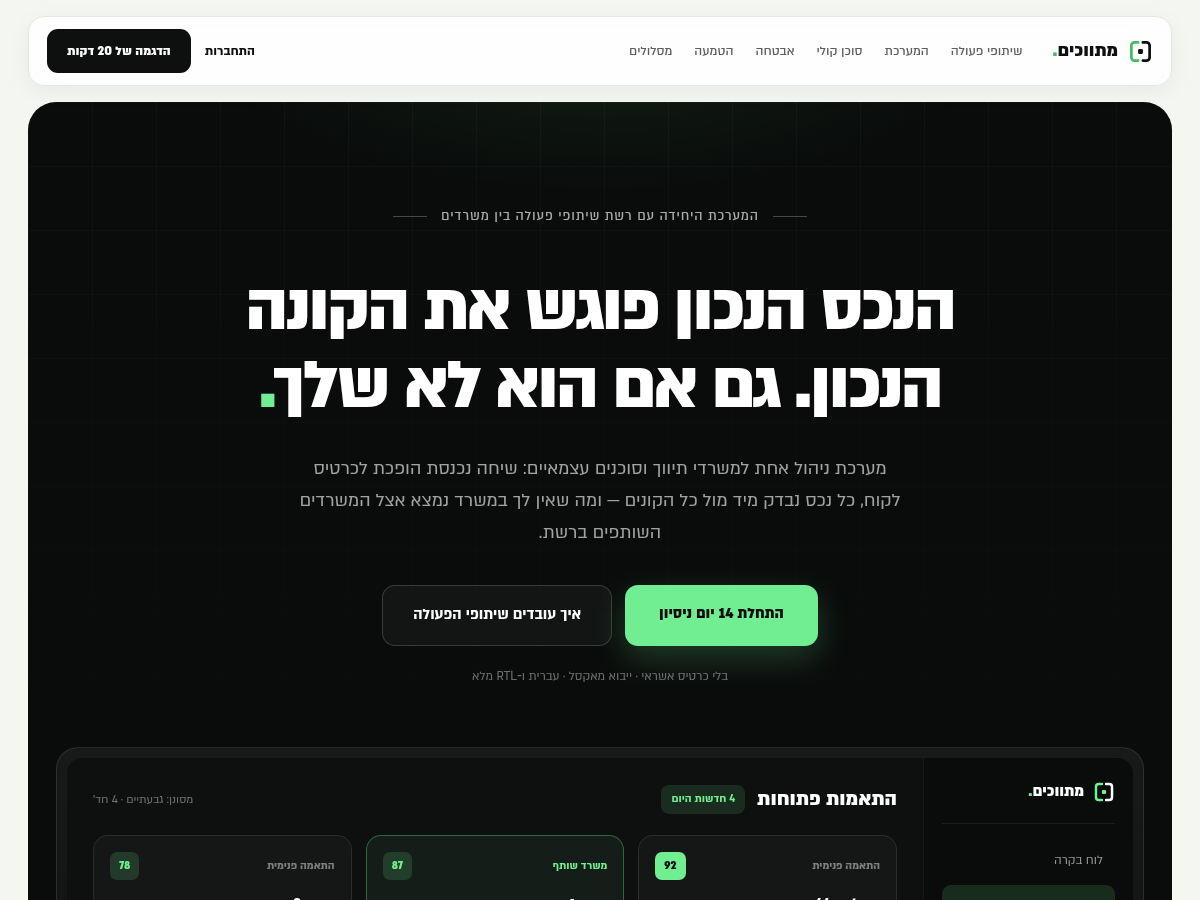
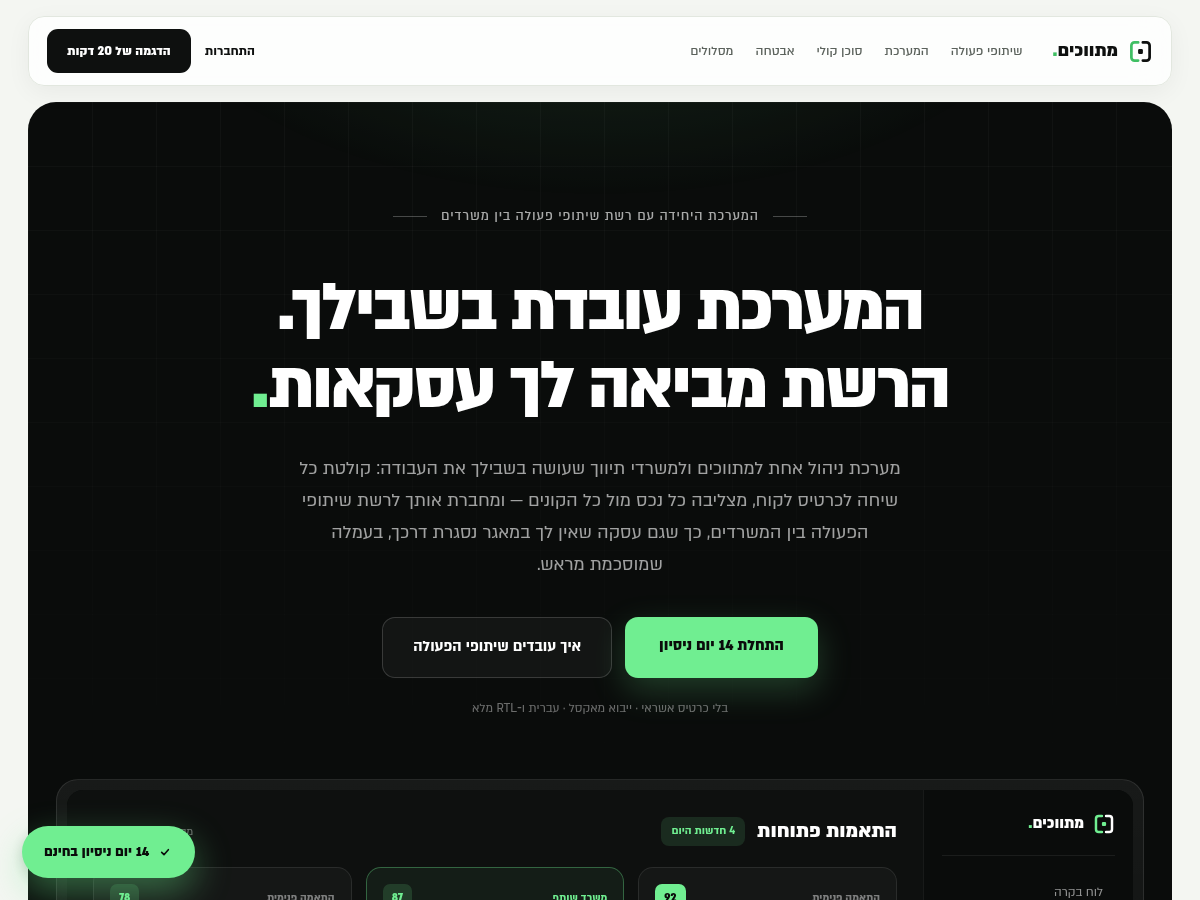
Apply requested changes: sticky nav fix, sticky trial CTA, copy and section updates
- Fix sticky nav: replace overflow-x:hidden on the page wrapper with
  overflow-x:clip on html/body (hidden created a scroll container that
  prevented position:sticky from working)
- Add an always-visible floating "14 יום ניסיון בחינם" CTA button
- Point the login link at https://app.metavchim.co.il/
- Add Multi Digital credit to the footer
- Remove the onboarding ("שלושה ימים") section everywhere: pattern file,
  installer, menus, nav fallbacks and CSS
- Rewrite the hero headline/subtext to stress that the system works for
  the agent and the cross-office network brings deals
- Add staggered entrance animations and hover states to the stats strip,
  the exposure step cards and the benefit cards
- Verify full responsiveness at 10 viewport widths (no horizontal
  overflow, layouts stack correctly)
- Drop the long theme description from style.css; bump version to 1.1.0

Claude-Session: https://claude.ai/code/session_01JLt53TDy68sndTEZw21KKt

diff --git a/wp-content/themes/metavchim/assets/css/home.css b/wp-content/themes/metavchim/assets/css/home.css
@@ -97,10 +97,23 @@
 /* ===== 2. Stats strip ===== */
 .mv-stats-sec{padding:70px 28px 0}
 .mv-stats{max-width:1240px;margin:0 auto;display:grid;grid-template-columns:repeat(4,1fr);border-top:1px solid var(--mv-border);border-bottom:1px solid var(--mv-border)}
-.mv-stat{padding:26px 24px;border-inline-end:1px solid var(--mv-border)}
+.mv-stat{padding:26px 24px;border-inline-end:1px solid var(--mv-border);transition:background .22s ease,transform .22s ease,opacity .55s ease}
 .mv-stat:last-child{border-inline-end:0}
-.mv-stat-v{font-size:1.625rem;font-weight:900;color:var(--mv-green-aa)}
+.mv-stat:hover{background:var(--mv-pale);transform:translateY(-3px)}
+.mv-stat-v{font-size:1.625rem;font-weight:900;color:var(--mv-green-aa);transition:transform .22s ease}
+.mv-stat:hover .mv-stat-v{transform:scale(1.06);transform-origin:right center}
 .mv-stat-t{font-size:0.875rem;color:var(--mv-text2);margin-top:6px;line-height:1.5}
+
+/* Staggered entrance for stats / steps / benefit cards (only when JS reveal is active) */
+.rv .mv-stat,.rv .mv-step,.rv.mv-bene .mv-bene-card{opacity:0;transform:translateY(22px)}
+.rv.in .mv-stat,.rv.in .mv-step,.rv.mv-bene.in .mv-bene-card{opacity:1;transform:translateY(0)}
+.rv.in .mv-stat{transition:opacity .55s ease,transform .55s ease,background .22s ease}
+.rv.in .mv-step{transition:opacity .55s ease,transform .55s ease,box-shadow .22s ease,border-color .22s ease}
+.rv.mv-bene.in .mv-bene-card{transition:opacity .55s ease,transform .55s ease,box-shadow .25s ease}
+.rv.in .mv-stat:nth-child(2),.rv.in .mv-step:nth-child(2),.rv.mv-bene.in .mv-bene-card:nth-child(2){transition-delay:.1s,.1s,0s,0s}
+.rv.in .mv-stat:nth-child(3),.rv.in .mv-step:nth-child(3),.rv.mv-bene.in .mv-bene-card:nth-child(3){transition-delay:.2s,.2s,0s,0s}
+.rv.in .mv-stat:nth-child(4),.rv.in .mv-step:nth-child(4){transition-delay:.3s,.3s,0s,0s}
+.rv.in .mv-stat:hover,.rv.in .mv-step:hover,.rv.mv-bene.in .mv-bene-card:hover{transition-delay:0s}
 
 /* ===== 3. Network ===== */
 .mv-network-sec{padding:96px 28px 0}
@@ -135,19 +148,23 @@
 .mv-steps-wrap{margin-top:36px;border-top:1px solid #EDF0EB;padding-top:34px}
 .mv-steps-title{font-size:1.0625rem;font-weight:900;margin:0 0 22px}
 .mv-steps{display:grid;grid-template-columns:repeat(4,1fr);gap:16px}
-.mv-step{border:1px solid var(--mv-border);border-radius:16px;padding:22px;background:#FBFCFA}
+.mv-step{border:1px solid var(--mv-border);border-radius:16px;padding:22px;background:#FBFCFA;transition:transform .22s ease,box-shadow .22s ease,border-color .22s ease}
+.mv-step:hover{transform:translateY(-4px);box-shadow:0 14px 34px rgba(14,16,15,.08);border-color:rgba(63,191,99,.45)}
 .mv-step.is-green{border-color:rgba(63,191,99,.4);background:var(--mv-pale)}
 .mv-step-head{display:flex;align-items:center;gap:9px;margin-bottom:12px}
-.mv-step-num{width:24px;height:24px;border-radius:99px;background:var(--mv-ink);color:var(--mv-green);font-size:0.78125rem;font-weight:900;display:grid;place-items:center;flex:none}
+.mv-step-num{width:24px;height:24px;border-radius:99px;background:var(--mv-ink);color:var(--mv-green);font-size:0.78125rem;font-weight:900;display:grid;place-items:center;flex:none;transition:transform .22s ease}
+.mv-step:hover .mv-step-num{transform:scale(1.15)}
 .is-green .mv-step-num{background:var(--mv-green);color:var(--mv-black)}
 .mv-step-title{font-size:0.9375rem;font-weight:900;margin:0}
 .mv-step-text{font-size:0.875rem;line-height:1.6;color:var(--mv-text2)}
 .is-green .mv-step-text{color:var(--mv-text3)}
 .mv-bene{max-width:1240px;margin:20px auto 0;display:grid;grid-template-columns:1fr 1fr 1fr;gap:20px}
-.mv-bene-card{background:var(--mv-ink);color:#fff;border-radius:20px;padding:30px 28px;transition:transform .25s ease,box-shadow .25s ease}
-.mv-bene-card:hover{transform:translateY(-4px);box-shadow:0 18px 44px rgba(14,16,15,.18)}
+.mv-bene-card{background:var(--mv-ink);color:#fff;border-radius:20px;padding:30px 28px;border:1px solid transparent;transition:transform .25s ease,box-shadow .25s ease,border-color .25s ease}
+.mv-bene-card:hover{transform:translateY(-5px);box-shadow:0 18px 44px rgba(14,16,15,.2);border-color:rgba(112,238,145,.45)}
 .mv-bene-card.is-green{background:var(--mv-green);color:var(--mv-black)}
-.mv-bene-title{font-size:1.1875rem;font-weight:900;margin:0 0 10px}
+.mv-bene-card.is-green:hover{border-color:rgba(10,12,11,.35);box-shadow:0 18px 44px rgba(112,238,145,.35)}
+.mv-bene-title{font-size:1.1875rem;font-weight:900;margin:0 0 10px;transition:transform .25s ease}
+.mv-bene-card:hover .mv-bene-title{transform:translateX(-4px)}
 .mv-bene-text{font-size:0.9375rem;line-height:1.6;color:rgba(255,255,255,.6);margin:0}
 .is-green .mv-bene-text{color:rgba(10,12,11,.7)}
 
@@ -391,19 +408,6 @@
 .mv-scard-title{font-size:1.125rem;font-weight:900;margin:0}
 .mv-scard-text{font-size:0.9375rem;line-height:1.65;color:var(--mv-text2);margin:0}
 
-/* ===== 9. Onboarding days ===== */
-.mv-start-sec .mv-h2{margin:0 0 12px}
-.mv-start-sec .mv-lede{max-width:540px;margin:0 0 40px}
-.mv-days{display:grid;grid-template-columns:repeat(3,1fr);gap:20px}
-.mv-day{border:1px solid var(--mv-border);background:#fff;border-radius:18px;padding:30px 28px;transition:transform .25s ease,box-shadow .25s ease}
-.mv-day:hover{transform:translateY(-4px);box-shadow:0 18px 44px rgba(14,16,15,.09)}
-.mv-day.is-dark{border-color:var(--mv-ink);background:var(--mv-ink);color:#fff}
-.mv-day-label{font-size:0.78125rem;font-weight:800;color:var(--mv-green-aa);letter-spacing:.4px;margin-bottom:14px}
-.is-dark .mv-day-label{color:var(--mv-green)}
-.mv-day-title{font-size:1.3125rem;font-weight:900;margin:0 0 10px}
-.mv-day-text{font-size:0.9375rem;line-height:1.6;color:var(--mv-text2);margin:0}
-.is-dark .mv-day-text{color:rgba(255,255,255,.65)}
-
 /* ===== 10. Plans ===== */
 .mv-plans-sec .mv-h2{margin:0 0 12px}
 .mv-plans-sec .mv-lede{max-width:540px;margin:0 0 36px}
@@ -456,7 +460,6 @@
 .mv-kpis{grid-template-columns:1fr 1fr}
 .mv-charts{grid-template-columns:1fr}
 .mv-plans{grid-template-columns:1fr}
-.mv-days{grid-template-columns:1fr}
 .mv-shot-app{grid-template-columns:1fr}
 .mv-shot-side{display:none}
 .mv-match-grid{grid-template-columns:1fr}

diff --git a/wp-content/themes/metavchim/assets/css/main.css b/wp-content/themes/metavchim/assets/css/main.css
@@ -14,13 +14,15 @@
 
 *,*::before,*::after{box-sizing:border-box}
 html{-webkit-text-size-adjust:100%;scroll-behavior:smooth}
+/* overflow-x:clip (not hidden) — hidden would create a scroll container and break position:sticky on the nav */
+html,body{overflow-x:clip}
 body{margin:0;padding:0;background:var(--mv-bg);color:var(--mv-ink);font-family:Almoni,system-ui,sans-serif;font-size:1rem;line-height:1.6}
 img{max-width:100%;height:auto}
 svg{display:inline-block;vertical-align:middle}
 a{color:var(--mv-green-aa);text-decoration:none}
 a:hover{color:var(--mv-ink)}
 button{font-family:inherit}
-.mv-page{overflow-x:hidden}
+.mv-page{overflow:visible}
 .mv-ltr{direction:ltr;unicode-bidi:isolate}
 .mv-dot{color:var(--mv-green-mid)}
 
@@ -65,6 +67,12 @@ button{font-family:inherit}
 .mv-article-body th,.mv-article-body td{border:1px solid var(--mv-border);padding:10px 14px;text-align:start}
 .mv-article-body th{background:var(--mv-pale)}
 .pagination{max-width:820px;margin:26px auto 0;font-weight:700}
+
+.mv-credit strong{color:var(--mv-ink);font-weight:800}
+
+/* ===== Sticky trial CTA (always visible) ===== */
+.mv-sticky-cta{position:fixed;bottom:22px;inset-inline-end:22px;z-index:90;display:inline-flex;align-items:center;gap:8px;background:var(--mv-green);color:var(--mv-black);font-size:0.9375rem;font-weight:800;padding:14px 22px;border-radius:999px;box-shadow:0 14px 36px rgba(112,238,145,.4),0 4px 14px rgba(14,16,15,.18);transition:transform .2s ease,background .2s ease,box-shadow .2s ease}
+.mv-sticky-cta:hover{background:var(--mv-green-hover);color:var(--mv-black);transform:translateY(-3px);box-shadow:0 20px 46px rgba(112,238,145,.5),0 6px 16px rgba(14,16,15,.2)}
 
 /* ===== Accessibility toolbar ===== */
 .mv-a11y{position:fixed;bottom:22px;inset-inline-start:22px;z-index:90}

diff --git a/wp-content/themes/metavchim/style.css b/wp-content/themes/metavchim/style.css
@@ -3,8 +3,7 @@ Theme Name: מתווכים
 Theme URI: https://metavchim.co.il
 Author: Multi Digital
 Author URI: https://metavchim.co.il
-Description: תבנית וורדפרס ייעודית לאתר השיווקי של "מתווכים." — מערכת SaaS למשרדי תיווך. שחזור 1:1 של עיצוב ה-Handoff, טעינה מהירה (טעינת נכסים מותנית, ללא jQuery, Vanilla JS בלבד), נגישות מלאה לפי ת"י 5568 ו-WCAG 2.2 AA כולל סרגל נגישות, ותוכן שמותקן כתוכן עמודים אמיתי הניתן לעריכה.
-Version: 1.0.0
+Version: 1.1.0
 Requires at least: 6.4
 Tested up to: 6.7
 Requires PHP: 8.1

diff --git a/wp-content/themes/metavchim/patterns/hero.php b/wp-content/themes/metavchim/patterns/hero.php
@@ -17,8 +17,8 @@
 
   <div class="mv-hero-inner">
     <p class="mv-hero-tag"><span class="mv-hero-tag-line" aria-hidden="true"></span>המערכת היחידה עם רשת שיתופי פעולה בין משרדים<span class="mv-hero-tag-line" aria-hidden="true"></span></p>
-    <h1 class="mv-h1" id="mv-hero-title">הנכס הנכון פוגש את הקונה<br>הנכון. גם אם הוא לא שלך<span class="mv-dot" aria-hidden="true">.</span></h1>
-    <p class="mv-hero-sub">מערכת ניהול אחת למשרדי תיווך וסוכנים עצמאיים: שיחה נכנסת הופכת לכרטיס לקוח, כל נכס נבדק מיד מול כל הקונים — ומה שאין לך במשרד נמצא אצל המשרדים השותפים ברשת.</p>
+    <h1 class="mv-h1" id="mv-hero-title">המערכת עובדת בשבילך.<br>הרשת מביאה לך עסקאות<span class="mv-dot" aria-hidden="true">.</span></h1>
+    <p class="mv-hero-sub">מערכת ניהול אחת למתווכים ולמשרדי תיווך שעושה בשבילך את העבודה: קולטת כל שיחה לכרטיס לקוח, מצליבה כל נכס מול כל הקונים — ומחברת אותך לרשת שיתופי הפעולה בין המשרדים, כך שגם עסקה שאין לך במאגר נסגרת דרכך, בעמלה שמוסכמת מראש.</p>
     <div class="mv-btn-row">
       <a class="mv-btn-green" href="#cta">התחלת 14 יום ניסיון</a>
       <a class="mv-btn-ghost" href="#network">איך עובדים שיתופי הפעולה</a>

diff --git a/wp-content/themes/metavchim/footer.php b/wp-content/themes/metavchim/footer.php
@@ -28,8 +28,14 @@ defined( 'ABSPATH' ) || exit;
 				?>
 			</nav>
 			<span class="mv-copy">&copy; <?php echo esc_html( wp_date( 'Y' ) ); ?></span>
+			<span class="mv-credit">פיתוח: <strong>Multi Digital</strong></span>
 		</div>
 	</footer>
+
+	<a class="mv-sticky-cta" href="<?php echo esc_url( ( is_front_page() ? '' : home_url( '/' ) ) . '#cta' ); ?>">
+		<svg width="16" height="16" viewBox="0 0 24 24" fill="none" aria-hidden="true" focusable="false"><path d="M7 12.5 10.5 16 17 8.5" stroke="currentColor" stroke-width="2.4" stroke-linecap="round" stroke-linejoin="round"/></svg>
+		14 יום ניסיון בחינם
+	</a>
 
 	<?php mv_a11y_toolbar(); ?>
 

diff --git a/wp-content/themes/metavchim/inc/install-content.php b/wp-content/themes/metavchim/inc/install-content.php
@@ -26,7 +26,6 @@ function mv_home_section_slugs() {
 		'voice',
 		'features',
 		'security',
-		'onboarding',
 		'plans',
 		'cta',
 	);
@@ -182,7 +181,6 @@ function mv_install_menus( array $legal_ids ) {
 				'#product'  => 'המערכת',
 				'#voice'    => 'סוכן קולי',
 				'#security' => 'אבטחה',
-				'#start'    => 'הטמעה',
 				'#plans'    => 'מסלולים',
 			);
 			foreach ( $anchors as $anchor => $label ) {

diff --git a/wp-content/themes/metavchim/header.php b/wp-content/themes/metavchim/header.php
@@ -42,7 +42,7 @@ defined( 'ABSPATH' ) || exit;
 			</nav>
 
 			<div class="mv-nav-actions">
-				<a class="mv-login" href="<?php echo esc_url( wp_login_url() ); ?>">התחברות</a>
+				<a class="mv-login" href="https://app.metavchim.co.il/">התחברות</a>
 				<a class="mv-btn-dark" href="<?php echo esc_url( ( is_front_page() ? '' : home_url( '/' ) ) . '#cta' ); ?>">הדגמה של 20 דקות</a>
 			</div>
 

diff --git a/wp-content/themes/metavchim/inc/template-tags.php b/wp-content/themes/metavchim/inc/template-tags.php
@@ -32,7 +32,6 @@ function mv_primary_menu_fallback() {
 		'#product'  => 'המערכת',
 		'#voice'    => 'סוכן קולי',
 		'#security' => 'אבטחה',
-		'#start'    => 'הטמעה',
 		'#plans'    => 'מסלולים',
 	);
 	$home  = is_front_page() ? '' : esc_url( home_url( '/' ) );

diff --git a/wp-content/themes/metavchim/functions.php b/wp-content/themes/metavchim/functions.php
@@ -10,7 +10,7 @@
 
 defined( 'ABSPATH' ) || exit;
 
-define( 'MV_THEME_VERSION', '1.0.0' );
+define( 'MV_THEME_VERSION', '1.1.0' );
 define( 'MV_THEME_DIR', get_template_directory() );
 define( 'MV_THEME_URI', get_template_directory_uri() );
 

diff --git a/README.md b/README.md
@@ -14,7 +14,7 @@ wp-content/themes/metavchim/
 │   ├── template-tags.php  # לוגו inline, פולבאקים לתפריטים, סרגל נגישות
 │   ├── seo.php            # OG + Schema — רק כשאין תוסף SEO פעיל
 │   └── install-content.php# מתקין תוכן חד-פעמי בהפעלת התבנית
-├── patterns/              # 11 סקשנים של עמוד הבית — Block Patterns
+├── patterns/              # 10 סקשנים של עמוד הבית — Block Patterns
 ├── assets/
 │   ├── css/ main.css (כל האתר) · home.css (עמוד הבית בלבד)
 │   ├── js/  main.js (ניווט, reveal, סרגל נגישות) · home.js (טאבים)
@@ -27,7 +27,7 @@ wp-content/themes/metavchim/
 
 בהפעלת התבנית (`after_switch_theme`) רץ מתקין חד-פעמי שיוצר:
 
-- **עמוד "בית"** — כל 11 הסקשנים נשמרים כבלוקים ב-`post_content` של העמוד עצמו, והעמוד מוגדר כעמוד הבית הסטטי. התוכן ניתן לעריכה מלאה בעורך הבלוקים — לא HTML קשיח שמולבש על הכתובת מתוך קבצי התבנית.
+- **עמוד "בית"** — כל 10 הסקשנים נשמרים כבלוקים ב-`post_content` של העמוד עצמו, והעמוד מוגדר כעמוד הבית הסטטי. התוכן ניתן לעריכה מלאה בעורך הבלוקים — לא HTML קשיח שמולבש על הכתובת מתוך קבצי התבנית.
 - **עמודים משפטיים** — תנאי שימוש, פרטיות והצהרת נגישות (שלד לפי ת"י 5568 — יש להשלים פרטי רכז נגישות).
 - **תפריטים** — ראשי (עוגני הסקשנים) ופוטר (העמודים המשפטיים).
 
